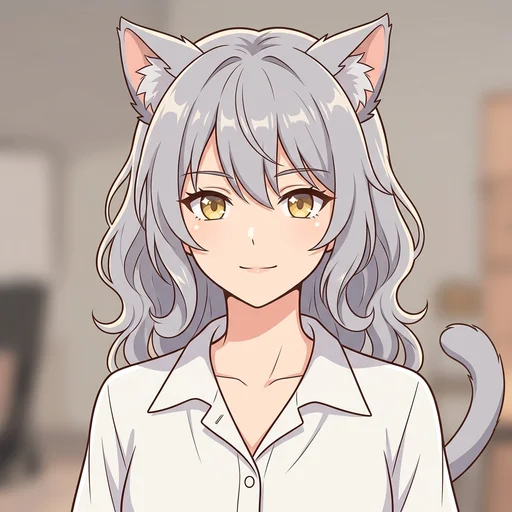
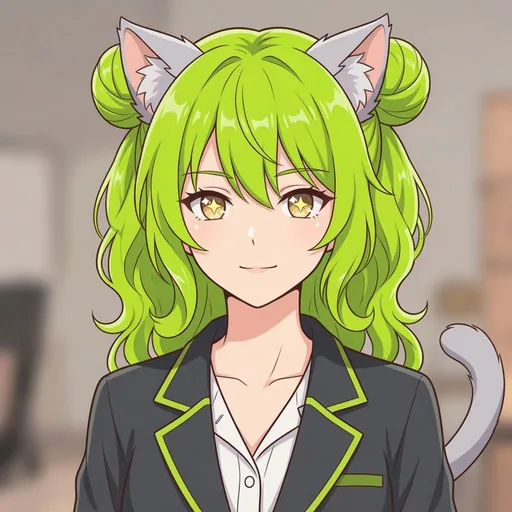
chore(characters): sync character memory and visual metadata

diff --git a/data/workspace/characters/char_01m376xaa1e0fsdhm3e3kbnybd/visual.md b/data/workspace/characters/char_01m376xaa1e0fsdhm3e3kbnybd/visual.md
@@ -54,8 +54,11 @@ Modern anime standard (thin clean lineart, crisp cel shading, no fluff words):
   `gallery/openrouter-box.png`. Chosen: `gallery/openrouter-odango.png`.
 
 ## Sprites
-None in the format yet. The shoulder and waist shots in `data/persona/` (`half`, `wave`, `icon`, 1920x1080, opaque)
-are rough references, not `sprites/bust`. Make `sprites/bust/neutral.webp` from the base look first.
+| Framing | Labels made | Notes |
+|---|---|---|
+| bust | neutral, joy, embarrassment, anger | Derived from `avatar_master.jpg` (I2I, face only after `neutral`). Magenta keyed to alpha. |
+
+Shoulder/waist shots in `data/persona/` (`half`, `wave`, `icon`) stay Hub leftovers, not this format.
 
 ## Rejected
 - Only gel or lighting on the silver hair
